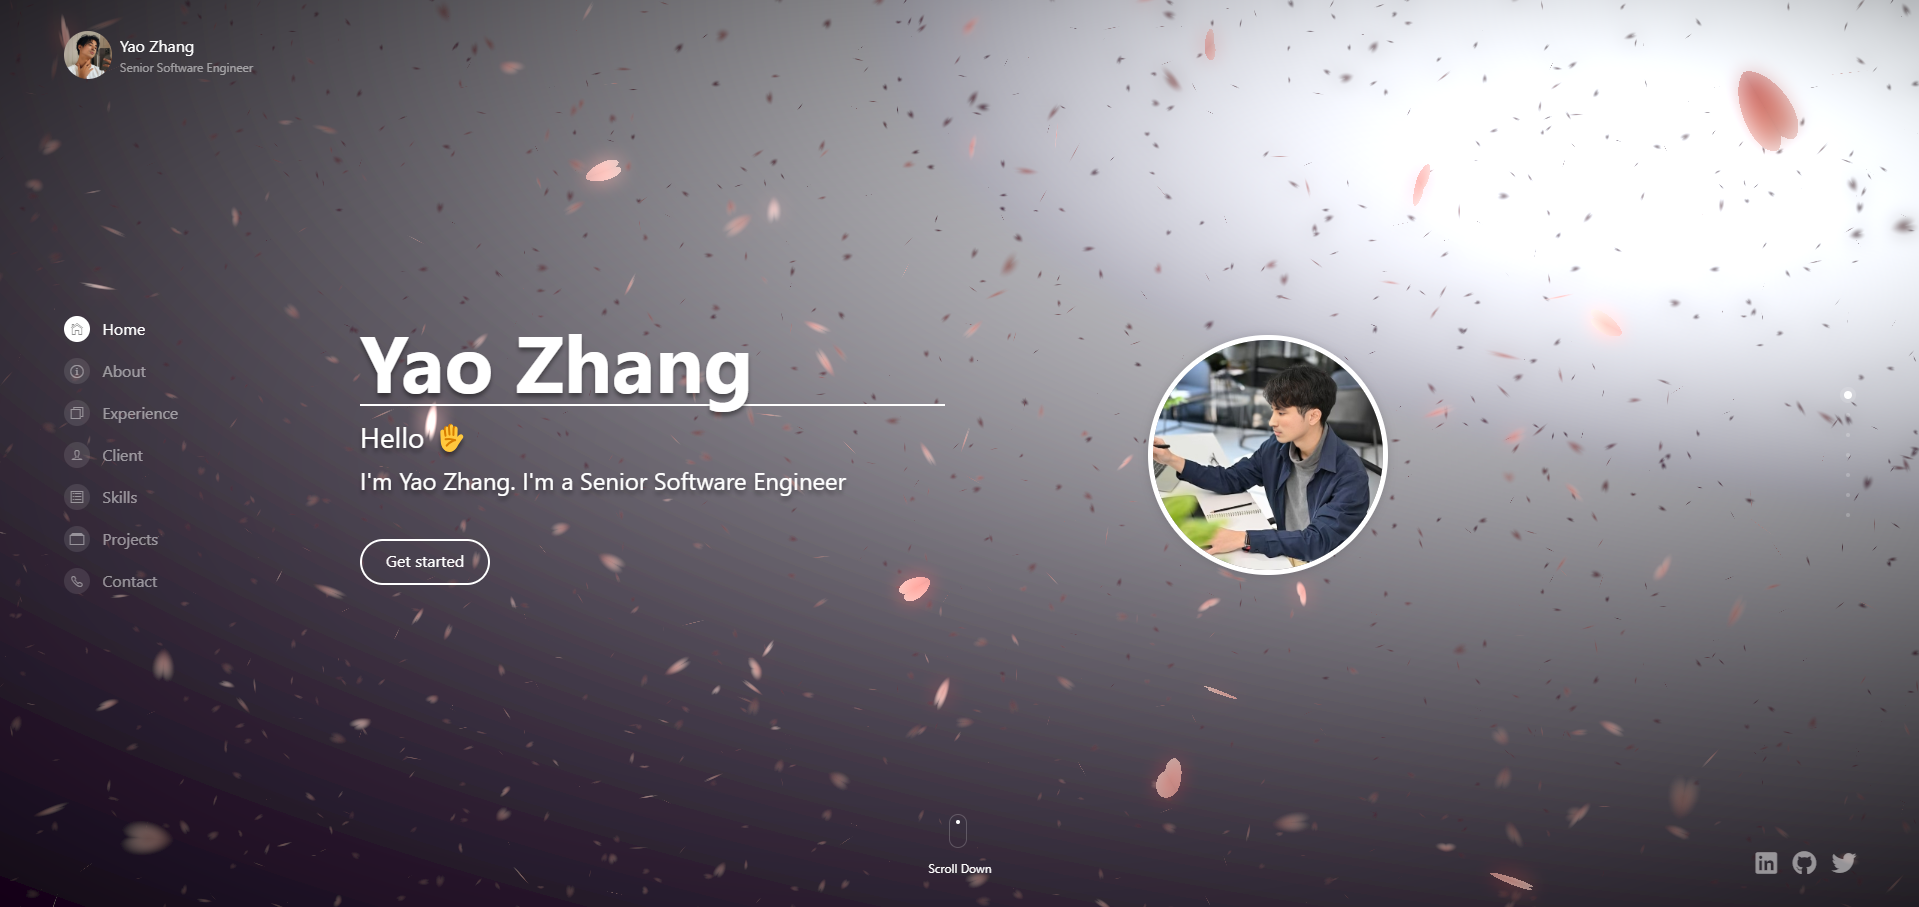
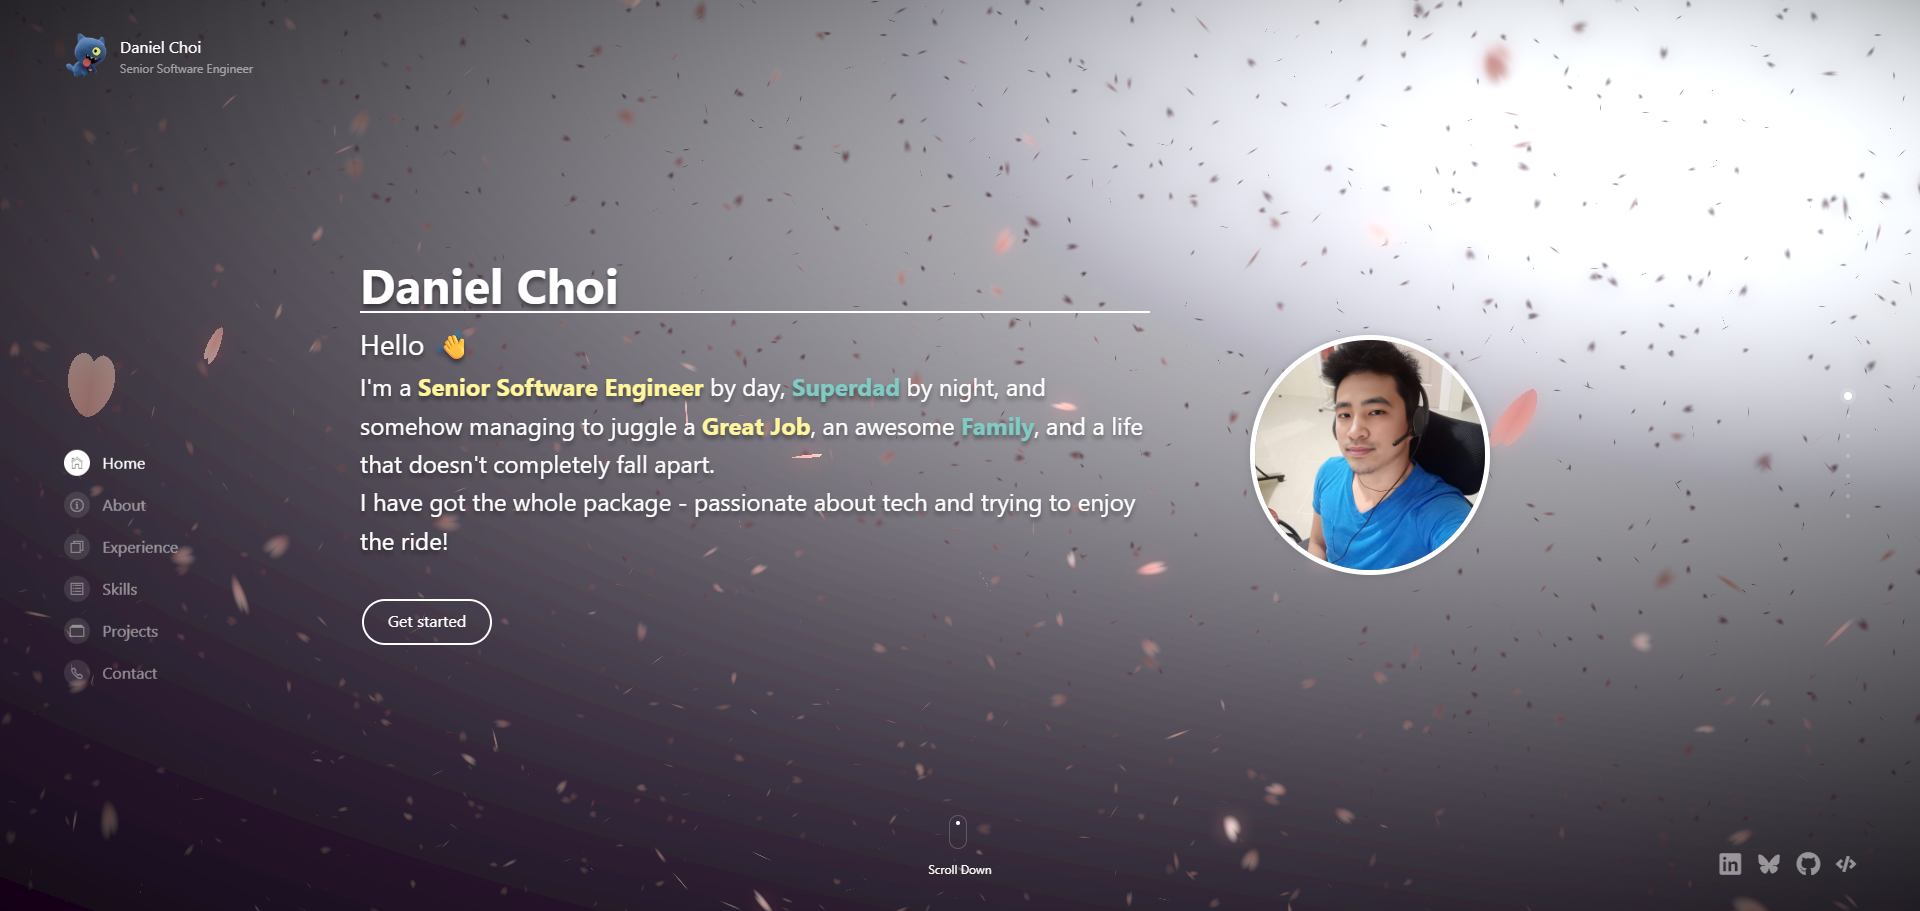
update content img

diff --git a/index.html b/index.html
@@ -20,7 +20,7 @@
     <meta property="og:url" content="https://dancho14.netlify.app/" />
     <meta property="og:title" content="Daniel Choi" />
     <meta property="og:description" content="Daniel Choi" />
-    <meta property="og:type" content="Website" />
+    <meta property="og:type" content="website" />
     <meta property="og:image" content="/img/content.png" />
     <meta property="og:image:type" content="content/jpg" />
     <meta property="og:image:width" content="640" />
